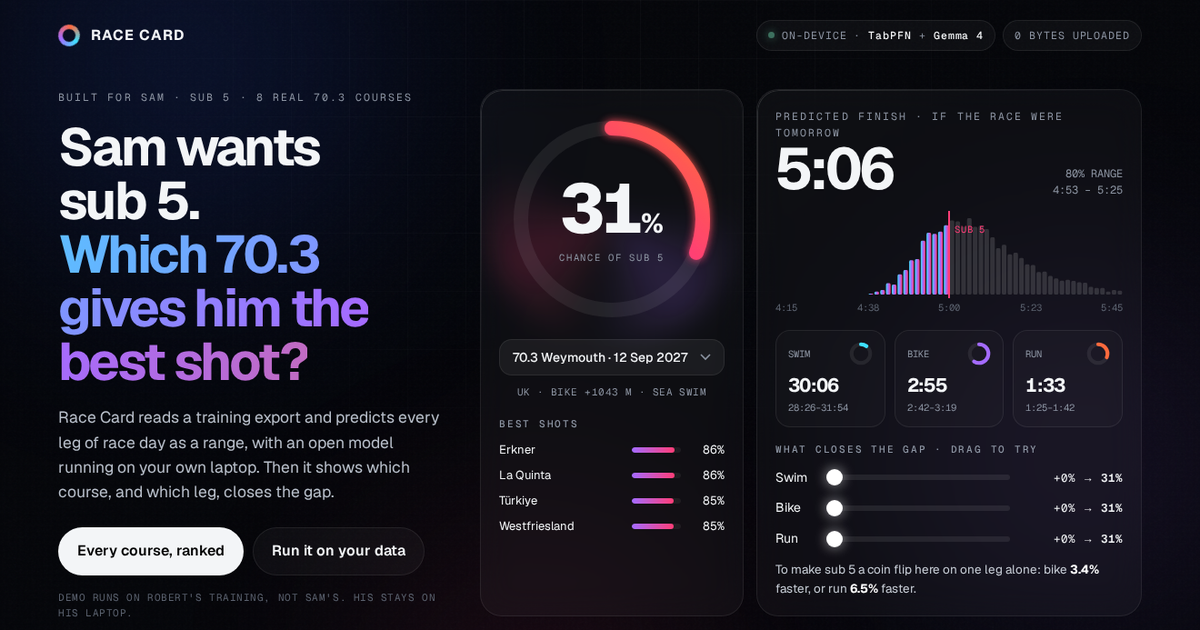
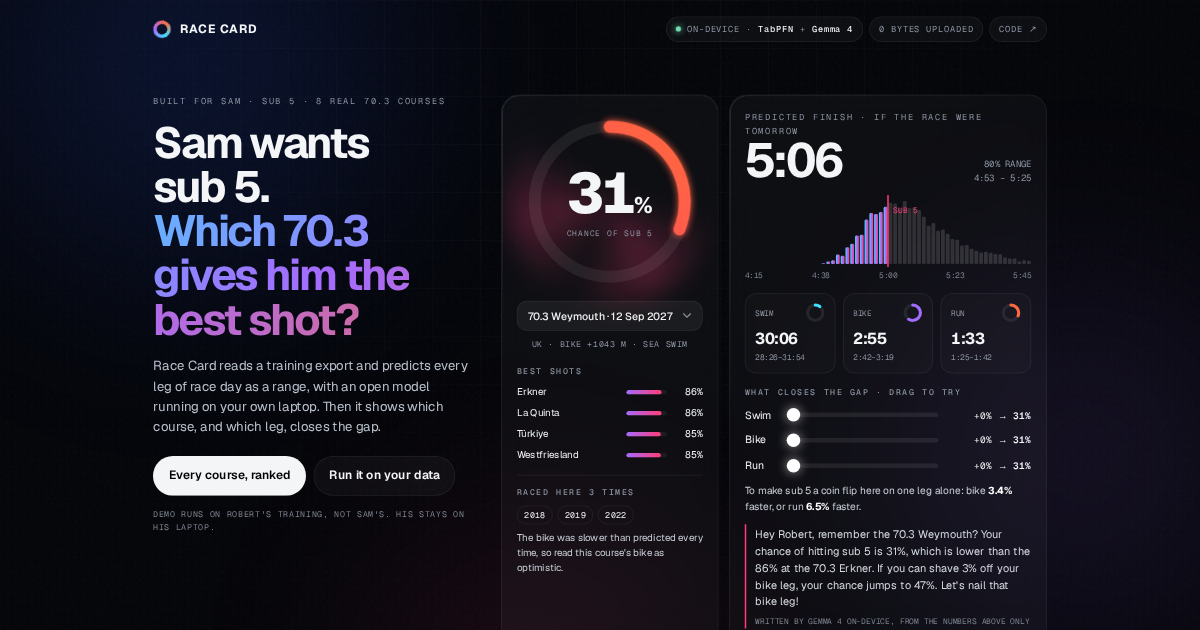
Refresh the preview image and put the slider demo at the top of the README

diff --git a/README.md b/README.md
@@ -1,6 +1,6 @@
 # Race Card
 
-![Race Card: the chance of a sub-5 IRONMAN 70.3, by course](docs/og.png)
+![Race Card: dragging the bike slider moves the chance of a sub-5 at Weymouth from 31% to 47%, then the flat Erkner course shows 86%](docs/demo.gif)
 
 **Which IRONMAN 70.3 gives you the best shot at your goal time?** Race Card reads your own training
 export, predicts every leg of race day as a range, and ranks eight real 70.3 courses by your chance of
